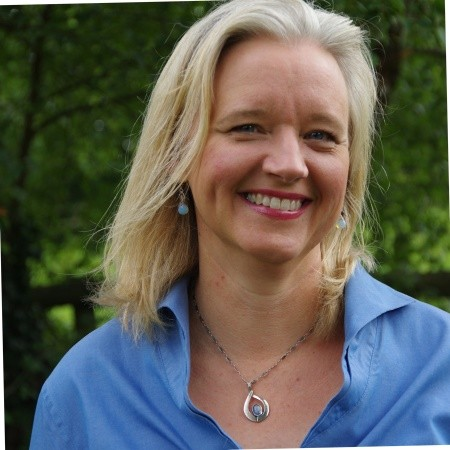
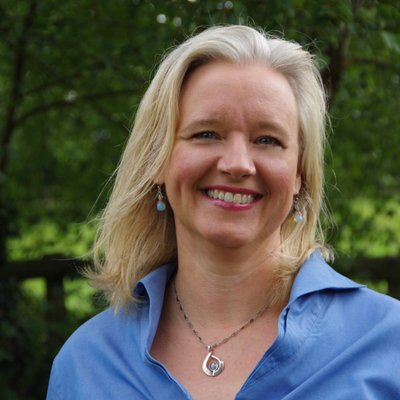
deploy: multimodalAI/multimodal-ai-hugo-group@f9e544381c42fb47bf314716171dcd0d29024024

diff --git a/author/aimie-chapple/index.html b/author/aimie-chapple/index.html
@@ -1,4 +1,4 @@
-<!doctype html><html lang=en-us><head><meta charset=utf-8><meta name=viewport content="width=device-width,initial-scale=1"><meta http-equiv=X-UA-Compatible content="IE=edge"><meta name=generator content="Wowchemy 5.7.0 for Hugo"><link rel=stylesheet href=/css/vendor-bundle.min.16f785cdb553c8c4431db6775122af35.css media=print onload='this.media="all"'><link rel=stylesheet href=https://cdn.jsdelivr.net/npm/academicons@1.9.2/css/academicons.min.css integrity="sha512-KlJCpRsLf+KKu2VQa5vmRuClRFjxc5lXO03ixZt82HZUk41+1I0bD8KBSA0fY290ayMfWYI9udIqeOWSu1/uZg==" crossorigin=anonymous media=print onload='this.media="all"'><link rel=stylesheet href=https://cdn.jsdelivr.net/npm/leaflet@1.7.1/dist/leaflet.min.css integrity crossorigin=anonymous media=print onload='this.media="all"'><link rel=stylesheet href=/css/wowchemy.b9231f75dcc97a371ce6141b4d2aadaf.css><link rel=stylesheet href=/css/libs/chroma/github-light.min.css title=hl-light media=print onload='this.media="all"'><link rel=stylesheet href=/css/libs/chroma/dracula.min.css title=hl-dark media=print onload='this.media="all"' disabled><script async src="https://www.googletagmanager.com/gtag/js?id=G-5K2K2GHWHQ"></script><script>window.dataLayer=window.dataLayer||[];function gtag(){dataLayer.push(arguments)}function trackOutboundLink(e,t){gtag("event","click",{event_category:"outbound",event_label:e,transport_type:"beacon",event_callback:function(){t!=="_blank"&&(document.location=e)}}),console.debug("Outbound link clicked: "+e)}function onClickCallback(e){if(e.target.tagName!=="A"||e.target.host===window.location.host)return;trackOutboundLink(e.target,e.target.getAttribute("target"))}gtag("js",new Date),gtag("config","G-5K2K2GHWHQ",{}),gtag("set",{cookie_flags:"SameSite=None;Secure"}),document.addEventListener("click",onClickCallback,!1)</script><meta name=author content="Haiping Lu"><meta name=description content="Unleashing the Potential of Multimodal AI - Join Us at Our Second Workshop!"><link rel=alternate hreflang=en-us href=https://multimodalAI.github.io/author/aimie-chapple/><link rel=canonical href=https://multimodalAI.github.io/author/aimie-chapple/><link rel=manifest href=/manifest.webmanifest><link rel=icon type=image/png href=/media/icon_hu25caa61f2e6d310cd2b668efa4781043_104298_32x32_fill_lanczos_center_3.png><link rel=apple-touch-icon type=image/png href=/media/icon_hu25caa61f2e6d310cd2b668efa4781043_104298_180x180_fill_lanczos_center_3.png><meta name=theme-color content="#1565c0"><meta property="twitter:card" content="summary"><meta property="twitter:site" content="@MultimodalAI_UK"><meta property="twitter:creator" content="@MultimodalAI_UK"><meta property="twitter:image" content="https://multimodalAI.github.io/author/aimie-chapple/avatar_hu8e2d334482a669daa7b6b3c1348fe2b7_53552_270x270_fill_q75_lanczos_center.jpg"><meta property="og:site_name" content="UK Open Multimodal AI Network"><meta property="og:url" content="https://multimodalAI.github.io/author/aimie-chapple/"><meta property="og:title" content="Aimie Chapple | UK Open Multimodal AI Network"><meta property="og:description" content="Unleashing the Potential of Multimodal AI - Join Us at Our Second Workshop!"><meta property="og:image" content="https://multimodalAI.github.io/author/aimie-chapple/avatar_hu8e2d334482a669daa7b6b3c1348fe2b7_53552_270x270_fill_q75_lanczos_center.jpg"><meta property="og:locale" content="en-us"><link rel=alternate href=/author/aimie-chapple/index.xml type=application/rss+xml title="UK Open Multimodal AI Network"><title>Aimie Chapple | UK Open Multimodal AI Network</title></head><body id=top data-spy=scroll data-offset=70 data-target=#TableOfContents class=page-wrapper data-wc-page-id=a76d9b018dcc17bb5e3fdd8c69edac2f><script src=/js/wowchemy-init.min.ec9d49ca50e4b80bdb08f0417a28ed84.js></script><aside class=search-modal id=search><div class=container><section class=search-header><div class="row no-gutters justify-content-between mb-3"><div class=col-6><h1>Search</h1></div><div class="col-6 col-search-close"><a class=js-search href=# aria-label=Close><i class="fas fa-times-circle text-muted" aria-hidden=true></i></a></div></div><div id=search-box><input name=q id=search-query placeholder=Search... autocapitalize=off autocomplete=off autocorrect=off spellcheck=false type=search class=form-control aria-label=Search...></div></section><section class=section-search-results><div id=search-hits></div></section></div></aside><div class="page-header header--fixed"><header><nav class="navbar navbar-expand-lg navbar-light compensate-for-scrollbar" id=navbar-main><div class=container-xl><div class="d-none d-lg-inline-flex"><a class=navbar-brand href=/>UK Open Multimodal AI Network</a></div><button type=button class=navbar-toggler data-toggle=collapse data-target=#navbar-content aria-controls=navbar-content aria-expanded=false aria-label="Toggle navigation">
+<!doctype html><html lang=en-us><head><meta charset=utf-8><meta name=viewport content="width=device-width,initial-scale=1"><meta http-equiv=X-UA-Compatible content="IE=edge"><meta name=generator content="Wowchemy 5.7.0 for Hugo"><link rel=stylesheet href=/css/vendor-bundle.min.16f785cdb553c8c4431db6775122af35.css media=print onload='this.media="all"'><link rel=stylesheet href=https://cdn.jsdelivr.net/npm/academicons@1.9.2/css/academicons.min.css integrity="sha512-KlJCpRsLf+KKu2VQa5vmRuClRFjxc5lXO03ixZt82HZUk41+1I0bD8KBSA0fY290ayMfWYI9udIqeOWSu1/uZg==" crossorigin=anonymous media=print onload='this.media="all"'><link rel=stylesheet href=https://cdn.jsdelivr.net/npm/leaflet@1.7.1/dist/leaflet.min.css integrity crossorigin=anonymous media=print onload='this.media="all"'><link rel=stylesheet href=/css/wowchemy.b9231f75dcc97a371ce6141b4d2aadaf.css><link rel=stylesheet href=/css/libs/chroma/github-light.min.css title=hl-light media=print onload='this.media="all"'><link rel=stylesheet href=/css/libs/chroma/dracula.min.css title=hl-dark media=print onload='this.media="all"' disabled><script async src="https://www.googletagmanager.com/gtag/js?id=G-5K2K2GHWHQ"></script><script>window.dataLayer=window.dataLayer||[];function gtag(){dataLayer.push(arguments)}function trackOutboundLink(e,t){gtag("event","click",{event_category:"outbound",event_label:e,transport_type:"beacon",event_callback:function(){t!=="_blank"&&(document.location=e)}}),console.debug("Outbound link clicked: "+e)}function onClickCallback(e){if(e.target.tagName!=="A"||e.target.host===window.location.host)return;trackOutboundLink(e.target,e.target.getAttribute("target"))}gtag("js",new Date),gtag("config","G-5K2K2GHWHQ",{}),gtag("set",{cookie_flags:"SameSite=None;Secure"}),document.addEventListener("click",onClickCallback,!1)</script><meta name=author content="Haiping Lu"><meta name=description content="Unleashing the Potential of Multimodal AI - Join Us at Our Second Workshop!"><link rel=alternate hreflang=en-us href=https://multimodalAI.github.io/author/aimie-chapple/><link rel=canonical href=https://multimodalAI.github.io/author/aimie-chapple/><link rel=manifest href=/manifest.webmanifest><link rel=icon type=image/png href=/media/icon_hu25caa61f2e6d310cd2b668efa4781043_104298_32x32_fill_lanczos_center_3.png><link rel=apple-touch-icon type=image/png href=/media/icon_hu25caa61f2e6d310cd2b668efa4781043_104298_180x180_fill_lanczos_center_3.png><meta name=theme-color content="#1565c0"><meta property="twitter:card" content="summary"><meta property="twitter:site" content="@MultimodalAI_UK"><meta property="twitter:creator" content="@MultimodalAI_UK"><meta property="twitter:image" content="https://multimodalAI.github.io/author/aimie-chapple/avatar_hu96cb49028180967075efdf16dcbc297e_30029_270x270_fill_q75_lanczos_center.jpg"><meta property="og:site_name" content="UK Open Multimodal AI Network"><meta property="og:url" content="https://multimodalAI.github.io/author/aimie-chapple/"><meta property="og:title" content="Aimie Chapple | UK Open Multimodal AI Network"><meta property="og:description" content="Unleashing the Potential of Multimodal AI - Join Us at Our Second Workshop!"><meta property="og:image" content="https://multimodalAI.github.io/author/aimie-chapple/avatar_hu96cb49028180967075efdf16dcbc297e_30029_270x270_fill_q75_lanczos_center.jpg"><meta property="og:locale" content="en-us"><link rel=alternate href=/author/aimie-chapple/index.xml type=application/rss+xml title="UK Open Multimodal AI Network"><title>Aimie Chapple | UK Open Multimodal AI Network</title></head><body id=top data-spy=scroll data-offset=70 data-target=#TableOfContents class=page-wrapper data-wc-page-id=a76d9b018dcc17bb5e3fdd8c69edac2f><script src=/js/wowchemy-init.min.ec9d49ca50e4b80bdb08f0417a28ed84.js></script><aside class=search-modal id=search><div class=container><section class=search-header><div class="row no-gutters justify-content-between mb-3"><div class=col-6><h1>Search</h1></div><div class="col-6 col-search-close"><a class=js-search href=# aria-label=Close><i class="fas fa-times-circle text-muted" aria-hidden=true></i></a></div></div><div id=search-box><input name=q id=search-query placeholder=Search... autocapitalize=off autocomplete=off autocorrect=off spellcheck=false type=search class=form-control aria-label=Search...></div></section><section class=section-search-results><div id=search-hits></div></section></div></aside><div class="page-header header--fixed"><header><nav class="navbar navbar-expand-lg navbar-light compensate-for-scrollbar" id=navbar-main><div class=container-xl><div class="d-none d-lg-inline-flex"><a class=navbar-brand href=/>UK Open Multimodal AI Network</a></div><button type=button class=navbar-toggler data-toggle=collapse data-target=#navbar-content aria-controls=navbar-content aria-expanded=false aria-label="Toggle navigation">
 <span><i class="fas fa-bars"></i></span></button><div class="navbar-brand-mobile-wrapper d-inline-flex d-lg-none"><a class=navbar-brand href=/>UK Open Multimodal AI Network</a></div><div class="navbar-collapse main-menu-item collapse justify-content-end" id=navbar-content><ul class="navbar-nav d-md-inline-flex"><li class=nav-item><a class=nav-link href=/omaib><span>Funding Call</span></a></li><li class=nav-item><a class=nav-link href=/multimodalai25><span>MultimodalAI'25</span></a></li><li class=nav-item><a class=nav-link href=/embc25workshop><span>EMBC'25</span></a></li><li class="nav-item dropdown"><a href=# class="nav-link dropdown-toggle" data-toggle=dropdown aria-haspopup=true><span>About</span><span class=caret></span></a><div class=dropdown-menu><a class=dropdown-item href=/#ukomain><span>UKOMAIN</span></a>
 <a class=dropdown-item href=/#team><span>Team</span></a>
 <a class=dropdown-item href=/#contact><span>Contact</span></a></div></li><li class="nav-item dropdown"><a href=# class="nav-link dropdown-toggle" data-toggle=dropdown aria-haspopup=true><span>Past Events</span><span class=caret></span></a><div class=dropdown-menu><a class=dropdown-item href=/multimodalai24><span>MultimodalAI'24</span></a>
@@ -6,7 +6,7 @@
 <a class=dropdown-item href=/multimodalai-sprint23><span>MultimodalAISprint'23</span></a>
 <a class=dropdown-item href=/multimodalai23><span>MultimodalAI'23</span></a></div></li><li class=nav-item><a class=nav-link href=/code-of-conduct><span>Code of Conduct</span></a></li></ul></div><ul class="nav-icons navbar-nav flex-row ml-auto d-flex pl-md-2"><li class=nav-item><a class="nav-link js-search" href=# aria-label=Search><i class="fas fa-search" aria-hidden=true></i></a></li><li class="nav-item dropdown theme-dropdown"><a href=# class=nav-link data-toggle=dropdown aria-haspopup=true aria-label="Display preferences"><i class="fas fa-moon" aria-hidden=true></i></a><div class=dropdown-menu><a href=# class="dropdown-item js-set-theme-light"><span>Light</span>
 </a><a href=# class="dropdown-item js-set-theme-dark"><span>Dark</span>
-</a><a href=# class="dropdown-item js-set-theme-auto"><span>Automatic</span></a></div></li></ul></div></nav></header></div><div class=page-body><section id=profile-page class=pt-5><div class=container><div class=row><div class="col-12 col-lg-4"><div id=profile><img class="avatar avatar-circle" width=270 height=270 src=/author/aimie-chapple/avatar_hu8e2d334482a669daa7b6b3c1348fe2b7_53552_270x270_fill_q75_lanczos_center.jpg alt="Aimie Chapple"><div class=portrait-title><h2>Aimie Chapple</h2><h3>Vice President Operations-COO, University College London</h3><h3><span></span></h3></div><ul class=network-icon aria-hidden=true><li><a href=https://www.linkedin.com/in/aimiechapple/ target=_blank rel=noopener aria-label=linkedin><i class="fab fa-linkedin big-icon"></i></a></li><li><a href=https://aimiechapple.wixsite.com/website target=_blank rel=noopener aria-label=globe><i class="fas fa-globe big-icon"></i></a></li></ul></div></div><div class="col-12 col-lg-8"><div class=article-style></div><div class=row></div></div></div></div></section></div><div class=page-footer><div class=container><footer class=site-footer><p class="powered-by copyright-license-text">© 2025 UK Open Multimodal AI Network (UKOMAIN).<br><a href=/privacy-and-data-use/>Privacy and Data Use Notice</a></p><p class=powered-by>Published with <a href="https://wowchemy.com/?utm_campaign=poweredby" target=_blank rel=noopener>Wowchemy</a> — the free, <a href=https://github.com/wowchemy/wowchemy-hugo-themes target=_blank rel=noopener>open source</a> website builder that empowers creators.</p></footer></div></div><script src=/js/vendor-bundle.min.b4708d4364577c16ab7001b265a063a4.js></script><script src=https://cdn.jsdelivr.net/npm/leaflet@1.7.1/dist/leaflet.min.js integrity crossorigin=anonymous></script><script id=search-hit-fuse-template type=text/x-template>
+</a><a href=# class="dropdown-item js-set-theme-auto"><span>Automatic</span></a></div></li></ul></div></nav></header></div><div class=page-body><section id=profile-page class=pt-5><div class=container><div class=row><div class="col-12 col-lg-4"><div id=profile><img class="avatar avatar-circle" width=270 height=270 src=/author/aimie-chapple/avatar_hu96cb49028180967075efdf16dcbc297e_30029_270x270_fill_q75_lanczos_center.jpg alt="Aimie Chapple"><div class=portrait-title><h2>Aimie Chapple</h2><h3>Vice President Operations-COO, University College London</h3><h3><span></span></h3></div><ul class=network-icon aria-hidden=true><li><a href=https://www.linkedin.com/in/aimiechapple/ target=_blank rel=noopener aria-label=linkedin><i class="fab fa-linkedin big-icon"></i></a></li><li><a href=https://aimiechapple.wixsite.com/website target=_blank rel=noopener aria-label=globe><i class="fas fa-globe big-icon"></i></a></li></ul></div></div><div class="col-12 col-lg-8"><div class=article-style></div><div class=row></div></div></div></div></section></div><div class=page-footer><div class=container><footer class=site-footer><p class="powered-by copyright-license-text">© 2025 UK Open Multimodal AI Network (UKOMAIN).<br><a href=/privacy-and-data-use/>Privacy and Data Use Notice</a></p><p class=powered-by>Published with <a href="https://wowchemy.com/?utm_campaign=poweredby" target=_blank rel=noopener>Wowchemy</a> — the free, <a href=https://github.com/wowchemy/wowchemy-hugo-themes target=_blank rel=noopener>open source</a> website builder that empowers creators.</p></footer></div></div><script src=/js/vendor-bundle.min.b4708d4364577c16ab7001b265a063a4.js></script><script src=https://cdn.jsdelivr.net/npm/leaflet@1.7.1/dist/leaflet.min.js integrity crossorigin=anonymous></script><script id=search-hit-fuse-template type=text/x-template>
     <div class="search-hit" id="summary-{{key}}">
       <div class="search-hit-content">
         <div class="search-hit-name">

diff --git a/multimodalai25/index.html b/multimodalai25/index.html
@@ -22,7 +22,7 @@
 </a><a href=/call-for-sponsorship/ style=text-decoration:none><button>Sponsor Us</button>
 </a><a href=#key_dates style=text-decoration:none><button>Key Dates</button>
 </a><a href=#about style=text-decoration:none><button>About</button>
-</a><a href=#contact style=text-decoration:none><button>Contact Us</button></a></div></div><div class="col-12 col-sm-auto people-person"><a href=/author/aimie-chapple/><img width=270 height=270 loading=lazy class="avatar avatar-circle" src=/author/aimie-chapple/avatar_hu8e2d334482a669daa7b6b3c1348fe2b7_53552_270x270_fill_q75_lanczos_center.jpg alt=Avatar></a><div class=portrait-title><h2><a href=/author/aimie-chapple/>Aimie Chapple</a></h2><h3>Vice President Operations-COO, University College London</h3></div></div></div></div></section><section id=programme class="home-section wg-people"><div class=home-section-bg></div><div class=container><div class="row justify-content-center people-widget"><div class="col-md-12 section-heading"><h1>Tentative Programme</h1></div><div class=col-md-12><style>.sticky-buttons{position:fixed;top:1px!important;left:50%;transform:translateX(-50%);background:rgba(255,255,255,.9);padding:5px 8px;border-radius:8px;box-shadow:0 4px 6px rgba(0,0,0,.1);z-index:9999}.sticky-buttons button{font-family:open sans,Arial,sans-serif;font-size:14px;font-weight:700;padding:6px 12px;border:none;border-radius:4px;background-color:#154c79;color:#abdbe3;cursor:pointer;margin-right:8px;flex:none;min-width:120px}</style><div class=sticky-buttons><a href=#speaker style=text-decoration:none><button>Speakers</button>
+</a><a href=#contact style=text-decoration:none><button>Contact Us</button></a></div></div><div class="col-12 col-sm-auto people-person"><a href=/author/aimie-chapple/><img width=270 height=270 loading=lazy class="avatar avatar-circle" src=/author/aimie-chapple/avatar_hu96cb49028180967075efdf16dcbc297e_30029_270x270_fill_q75_lanczos_center.jpg alt=Avatar></a><div class=portrait-title><h2><a href=/author/aimie-chapple/>Aimie Chapple</a></h2><h3>Vice President Operations-COO, University College London</h3></div></div></div></div></section><section id=programme class="home-section wg-people"><div class=home-section-bg></div><div class=container><div class="row justify-content-center people-widget"><div class="col-md-12 section-heading"><h1>Tentative Programme</h1></div><div class=col-md-12><style>.sticky-buttons{position:fixed;top:1px!important;left:50%;transform:translateX(-50%);background:rgba(255,255,255,.9);padding:5px 8px;border-radius:8px;box-shadow:0 4px 6px rgba(0,0,0,.1);z-index:9999}.sticky-buttons button{font-family:open sans,Arial,sans-serif;font-size:14px;font-weight:700;padding:6px 12px;border:none;border-radius:4px;background-color:#154c79;color:#abdbe3;cursor:pointer;margin-right:8px;flex:none;min-width:120px}</style><div class=sticky-buttons><a href=#speaker style=text-decoration:none><button>Speakers</button>
 </a><a href=/call-for-sponsorship/ style=text-decoration:none><button>Sponsor Us</button>
 </a><a href=#key_dates style=text-decoration:none><button>Key Dates</button>
 </a><a href=#about style=text-decoration:none><button>About</button>
